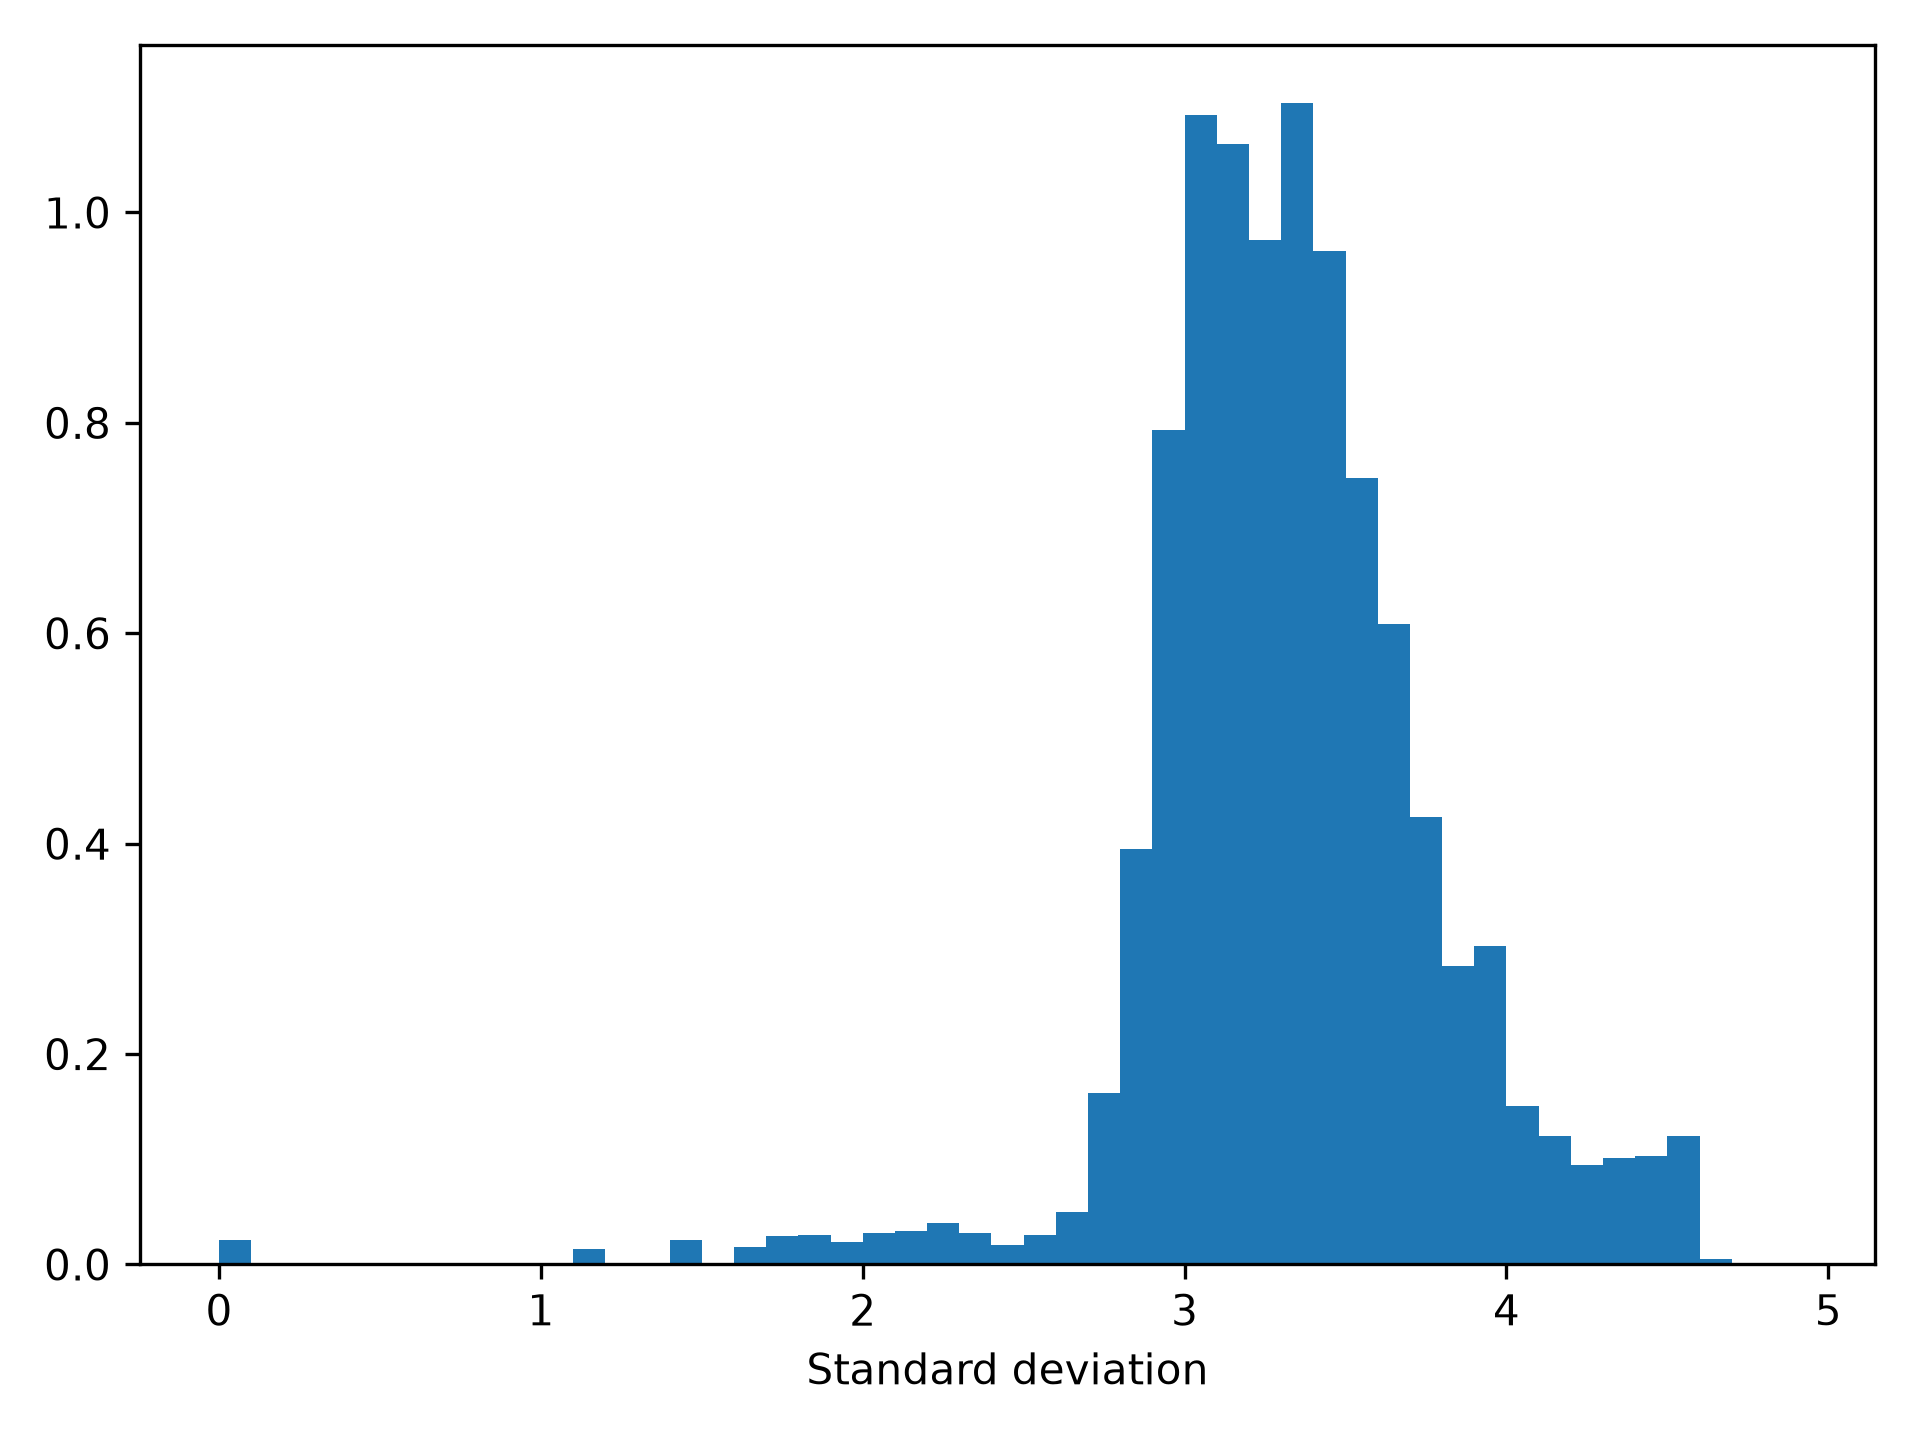
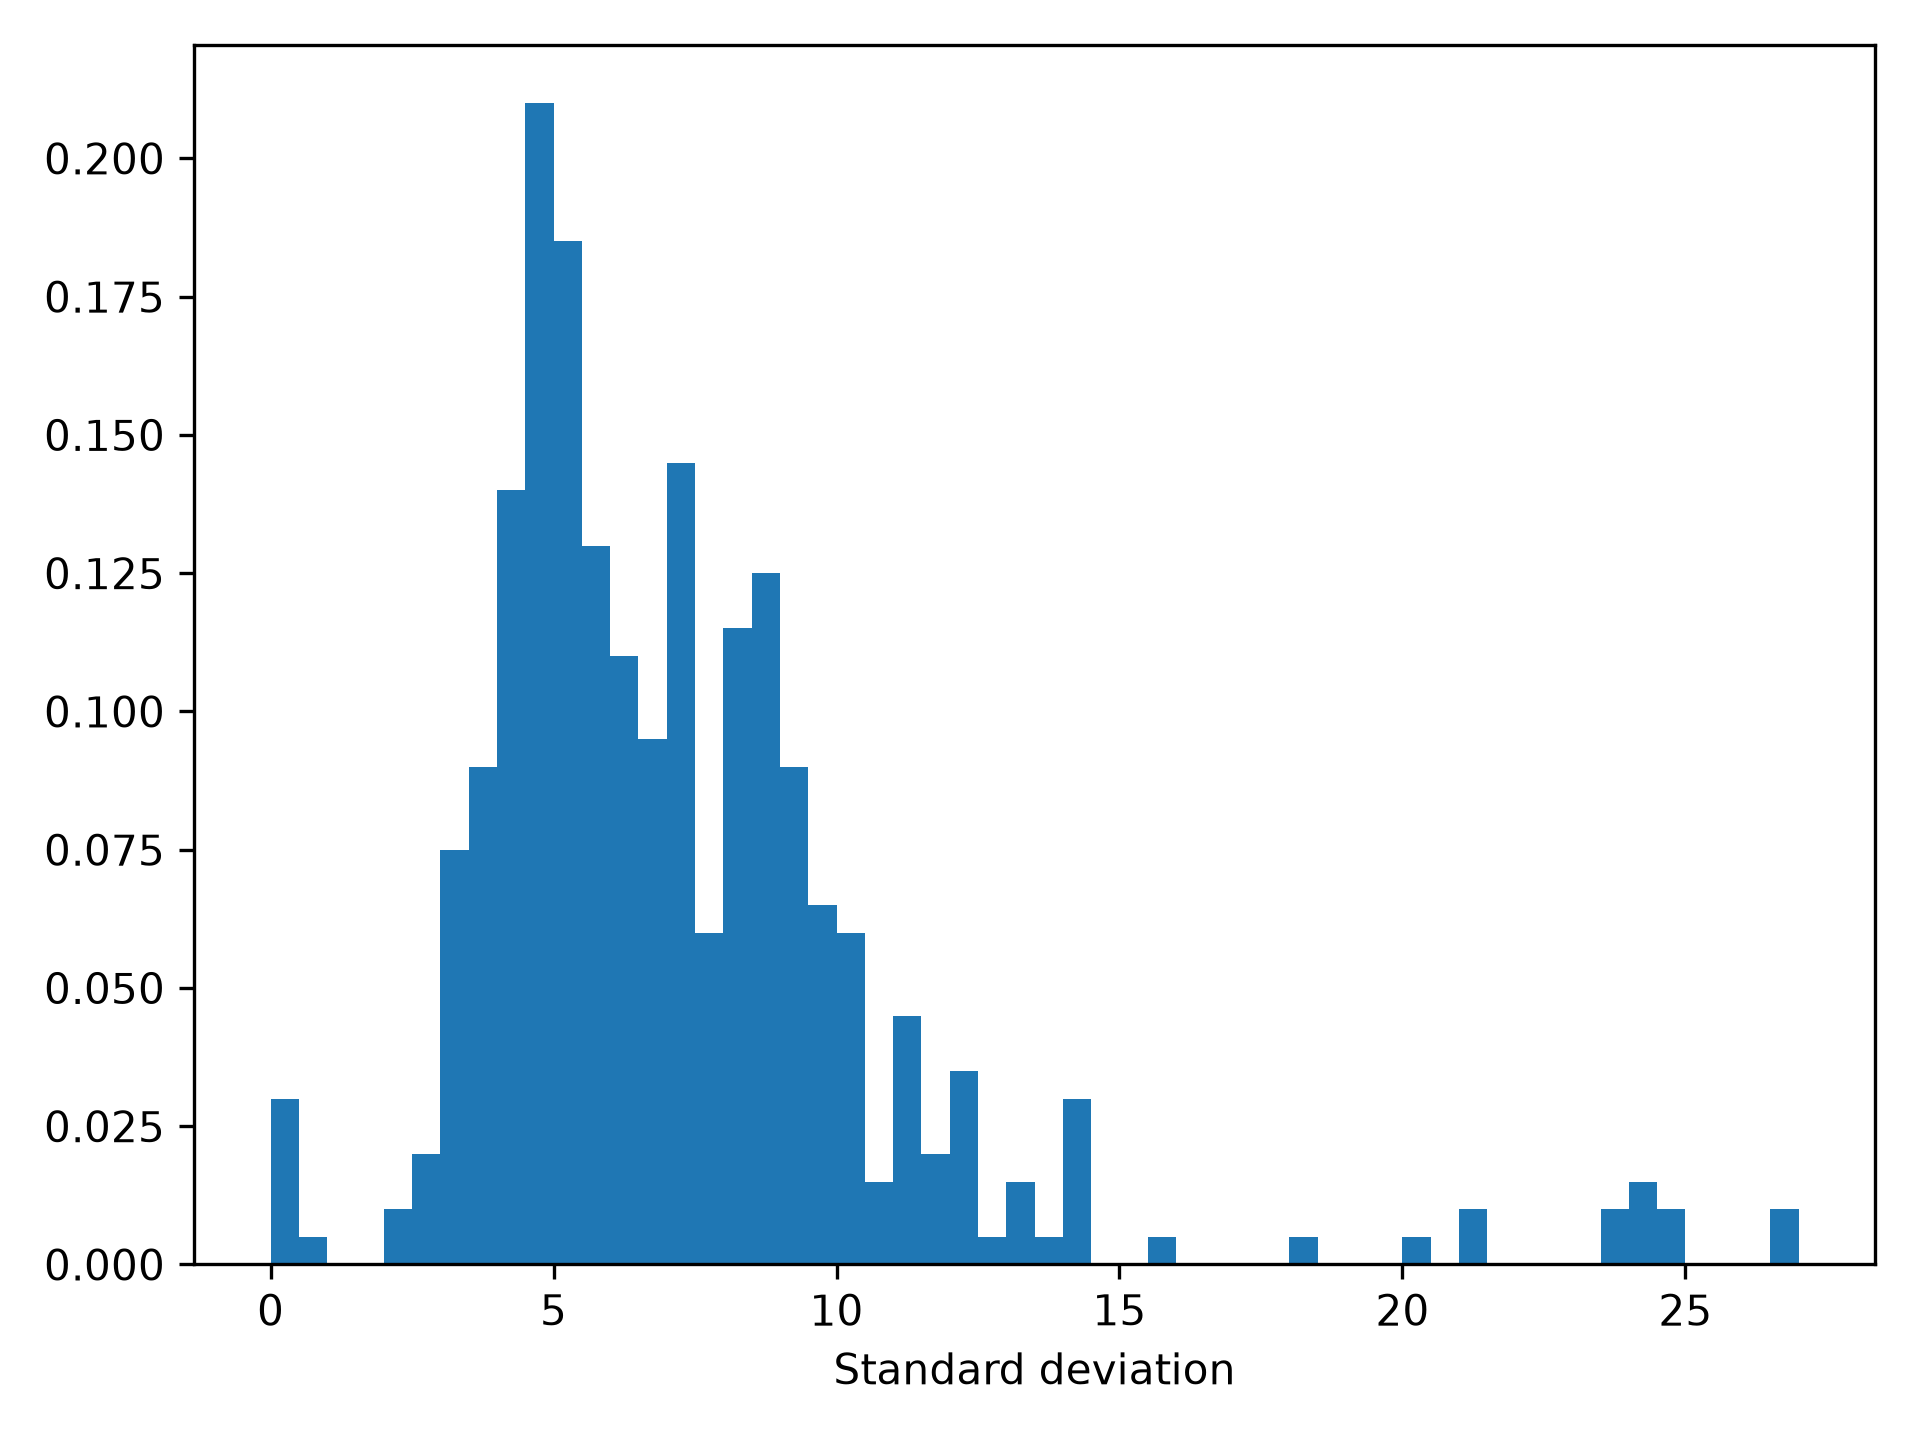
statistical testing

diff --git a/photometry.py b/photometry.py
@@ -19,7 +19,7 @@ box_size = 6
 bg_box_size = 50
 bg_threshold = 11
 global_bg = 3420
-ellipse_size = 10
+ellipse_size = 15
 
 
 # Note that all of the following are in (y, x) instead of (x, y).
@@ -397,7 +397,7 @@ def plot_residuals(res, chi_sq):
     # plt.imshow(res)
 
 
-def get_ellipse_params(popt):
+def get_ellipse_params(popt, size=ellipse_size):
     '''
     Converts the fitted values into the ellipse parameters.
 
@@ -405,6 +405,7 @@ def get_ellipse_params(popt):
 
     Args:
         popt (arr): The fitted values.
+        size (int): The ellipse size.
 
     Returns:
         tuple[arr, arr, float]: The centre, the axes, and the clockwise
@@ -412,8 +413,7 @@ def get_ellipse_params(popt):
     '''
     net_turn = popt[5]/(2*np.pi) - popt[5]//(2*np.pi)
 
-    return ((popt[2], popt[1]), (ellipse_size*popt[4], ellipse_size*popt[3]),
-            90-180/np.pi*popt[5])
+    return ((popt[2], popt[1]), (size*popt[4], size*popt[3]), 90-180/np.pi*popt[5])
     # return ((popt[2], popt[1]), (ellipse_size*popt[4], ellipse_size*popt[3]),
     #         90 - 180*net_turn/(np.pi))
 
@@ -443,7 +443,21 @@ def plot_ellipse(box_im, ellipse):
     plt.show()
 
 
-def popt_coord_shift(box, popt):
+def shift_ellipse_coord(box, ellipse):
+    '''
+    Shifts the coordinate of the centre of the fitted ellipse from the
+    boxed region to the full image.
+
+    Args:
+        ellipse (list): The parameters of the fitted ellipse.
+        popt (arr): The fitted values.
+    '''
+    ellipse[0][0] += box[0][1]
+    ellipse[0][1] += box[0][0]
+    return ellipse
+
+
+def shift_popt_coord(box, popt):
     '''
     Shifts the coordinate of the centre of the fitted Gaussian from the
     boxed region to the full image.
@@ -712,6 +726,7 @@ def finding_masks(im, centre):
     bms = []
     flux_segment = []
     objs = []
+    objs_shifted = []
 
     try:
         if box[1] != box[2]:
@@ -720,8 +735,11 @@ def finding_masks(im, centre):
 
             box_im = np.ma.array(box_im, mask=edge_mask)
 
-            objs = fit_ellipse(box_im, np.median(box_im))
-            #plot_ellipse_edge(box_im, objs)
+            obj = fit_ellipse(box_im, np.median(box_im))
+            plot_ellipse(box_im=box_im, ellipse=obj)
+
+            obj_shifted = shift_ellipse_coord(box=box, ellipse=obj)
+            objs_shifted.append()
 
             bm = get_binary_mask(im=im, box=box, ellipse=objs)
             bms.append(bm)
@@ -730,7 +748,7 @@ def finding_masks(im, centre):
             flux = flux - local_bg * bm.sum()
             flux_segment.append(flux)
         else:
-            peaks = peak_local_max(box_im, min_distance=6, threshold_abs=1.1*np.median(box_im))
+            peaks = peak_local_max(box_im, min_distance=6, threshold_abs=threshold)
 
             if len(peaks) == 0:
                 peaks = [[centre[1], centre[0]]]
@@ -742,7 +760,6 @@ def finding_masks(im, centre):
             # obj = fit_gaussian(box_im=box_im)
             # plot_gaussian(box_im=box_im, popt=obj[0])
 
-
             #residuals, chi_sq = get_residuals(box_im=box_im, popt=objs)
             #plot_residuals(residuals, chi_sq)
             #plt.show()
@@ -751,13 +768,12 @@ def finding_masks(im, centre):
             no_of_objs = len(objs)//9
 
             objs = objs.reshape(no_of_objs, 9)
-            objs_shifted = []
 
             for obj in objs:
                 ellipse = get_ellipse_params(popt=obj)
                 plot_ellipse(box_im=box_im, ellipse=ellipse)
 
-                obj_shifted = popt_coord_shift(box=box, popt=obj)
+                obj_shifted = shift_popt_coord(box=box, popt=obj)
                 objs_shifted.append(obj_shifted)
 
                 bm = get_binary_mask(im=im, box=box, ellipse=ellipse)
@@ -766,7 +782,7 @@ def finding_masks(im, centre):
                 flux = np.sum(box_im * bm)
                 flux = flux - local_bg * bm.sum()
                 flux_segment.append(flux)
-                plot_n_gaussian(box_im=box_im, popt=obj)
+                # plot_n_gaussian(box_im=box_im, popt=obj)
 
         # ellipse = get_ellipse_params(popt=objs)
         # plot_ellipse(box_im=box_im, ellipse=ellipse)
@@ -787,17 +803,17 @@ def finding_masks(im, centre):
         obj = np.nan
         flux = np.nan
 
-    print("objects")
-    print(objs)
+    # print("objects")
+    # print(objs)
 
     masked_image = im
     for bm_mask in bms:
         #masked_image = get_new_image(xi=xi, yi=yi, mask=bm, box=box, im=im)
         masked_image = get_new_image(mask=bm_mask, box=box, im=masked_image, padded_image=box_im, edge_mask=edge_mask)
-        plt.imshow(masked_image)
-        plt.show()
+        # plt.imshow(masked_image)
+        # plt.show()
 
-    return masked_image, obj_shifted, flux_segment
+    return masked_image, objs_shifted, flux_segment
 
 
 def run_photometry():

diff --git a/photometry_testing.py b/photometry_testing.py
@@ -5,7 +5,8 @@ A module for testing the methods in photometry.
 import numpy as np
 import matplotlib.pyplot as plt
 from images import load_image, fit_pixel_histogram
-from photometry import get_box_image, find_centre, get_local_background, finding_masks, get_ellipse_params, plot_ellipse
+from photometry import (get_box_image, find_centre, get_local_background,
+                        finding_masks, get_ellipse_params)
 
 
 # Global variables.
@@ -106,25 +107,18 @@ def get_ellipse_axes(im, ellipse):
     return im[axis1[:, 1], axis1[:, 0]], im[axis2[:, 1], axis2[:, 0]]
 
 
-# im = load_image()
-# ellipse =[[400, 600], [200, 100], 50]
-# axis1, axis2 = get_ellipse_axes(im, ellipse)
-# plt.plot(axis1[:,0], axis1[:,1])
-# plt.plot(axis2[:,0], axis2[:,1])
-
-
-def detection_ellipse(sample=10, box_size=[200, 200]):
+def detection_ellipse(sample=100, box_size=[200, 200]):
     '''
     Computes the number of standard deviations from the centre of the
     source at which the fitted distribution is within one pixel of the
     local background mean.
 
     Args:
-        sample (int): The number of samples. Defaults to 10000.
+        sample (int): The number of samples. Defaults to 100.
         box_size (list): The shape of the box. Defaults to [101, 101].
     '''
     i = 0
-    std_no = []
+    std = []
     while i < sample:
         box = generate_random_box(box_size=box_size)
         box_im = get_box_image(im=image, box=box)
@@ -139,31 +133,51 @@ def detection_ellipse(sample=10, box_size=[200, 200]):
             _, popt, _ = finding_masks(im=image, centre=max_index_shifted)
         except Exception:
             continue
+        popt = popt[0]
         if popt[0] < bg_threshold:
             continue
-        ellipse = get_ellipse_params(popt=popt)
+        ellipse = get_ellipse_params(popt=popt, size=1)
         std1, std2 = ellipse[1]
         axis1, axis2 = get_ellipse_axes(im=image, ellipse=ellipse)
         if (len(axis1) != 4000) or (len(axis2) != 4000):
             continue
+        local_bg = get_local_background(im=image, centre=max_index_shifted)
         l = np.arange(-200, 200, 0.1)
-        plt.plot(l, axis1, '.', ms=1)
-        plt.plot(l, axis2, '.', ms=1)
-        plt.xlabel('Distance from source')
-        plt.ylabel('Pixel value')
-        # plt.savefig('figures/ellipse_axes_pixel', dpi=300)
-        plt.show()
+        axis1_mean = np.mean(axis1.reshape(-1, 10), axis=1)
+        axis2_mean = np.mean(axis2.reshape(-1, 10), axis=1)
+        l_mean = np.mean(l.reshape(-1, 10), axis=1)
+        axis1_bg = l_mean[axis1_mean <= local_bg]
+        axis2_bg = l_mean[axis2_mean <= local_bg]
+        axis1_bg = [np.max(axis1_bg[axis1_bg < 0]),
+                    np.min(axis1_bg[axis1_bg > 0])]
+        axis2_bg = [np.max(axis2_bg[axis2_bg < 0]),
+                    np.min(axis2_bg[axis2_bg > 0])]
+        axis1_bg = np.abs(axis1_bg / std1)
+        axis2_bg = np.abs(axis2_bg / std2)
+        std.append([*axis1_bg, *axis2_bg])
+        # plt.plot(l, axis1, '.', ms=1)
+        # plt.plot(l, axis2, '.', ms=1)
+        # plt.xlabel('Distance from source')
+        # plt.ylabel('Pixel value')
+        # # plt.savefig('figures/detection_ellipse_axes_pixel', dpi=300)
+        # plt.show()
         i += 1
+        print(i)
+    std = np.array(std).flatten()
 
-    plt.hist(std_no, bins=np.arange(0, 5, 0.1), density=True)
+    plt.hist(std, bins=np.arange(0, np.max(std)+0.5, 0.5), density=True)
     plt.xlabel('Standard deviation')
     plt.tight_layout()
     # plt.savefig('figures/detection_ellipse', dpi=300)
     plt.show()
 
-    std_no_err = np.std(std_no)
-    std_no_mean = np.mean(std_no)
+    std_10 = (std < 10).sum() / len(std)
+    std_15 = (std < 15).sum() / len(std)
+    std_err = np.std(std)
+    std = np.mean(std)
     print('STATISTICS')
-    print(f'Number of std = {std_no_mean:.4f} +/- {std_no_err:.4f}')
+    print(f'Number of std = {std:.4f} +/- {std_err:.4f}')
+    print(f'P(std < 10) = {std_10:.4f}')
+    print(f'P(std < 15) = {std_15:.4f}')
     print(f'Samples = {sample}')
     print(f'Box size = {box_size}')
